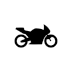
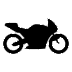
Images updated, line added an current location provided

Changed region(s): [[0.0278, 0.25, 0.9722, 0.75]]

diff --git a/workspaces/client/src/screens/Maps.tsx b/workspaces/client/src/screens/Maps.tsx
@@ -1,7 +1,7 @@
 import React, { useState, useCallback } from 'react';
 import { Linking, StyleSheet, View } from 'react-native';
 import { Text, Button } from 'react-native-elements';
-import MapView, { Region, Marker } from 'react-native-maps';
+import MapView, { Region, Marker, Polyline } from 'react-native-maps';
 import AsyncStorage from '@react-native-async-storage/async-storage';
 import { useFocusEffect } from '@react-navigation/native';
 import * as Location from 'expo-location';
@@ -12,7 +12,7 @@ import axios from '../../axios';
 import { Coords, Log, Tracker } from '../../types';
 import BicycleImage from '../../assets/bicycle.png';
 import TrailerImage from '../../assets/trailer.png';
-import MotorbikeImage from '../../assets/motorbike_avatar.png';
+import MotorbikeImage from '../../assets/motorbike.png';
 import ScooterImage from '../../assets/scooter.png';
 
 export default function MapsScreen({
@@ -132,6 +132,8 @@ export default function MapsScreen({
 
 	useFocusEffect(
 		useCallback(() => {
+			getCurLocation();
+
 			getCoords();
 		}, [route?.params])
 	);
@@ -157,9 +159,16 @@ export default function MapsScreen({
 					image={getTrackerImage()}
 				/>
 				{curLocation ? (
-					<Marker title={'Uw locatie'} coordinate={curLocation}>
-						<MaterialIcons name="my-location" />
-					</Marker>
+					<>
+						<Marker title={'Uw locatie'} coordinate={curLocation}>
+							<MaterialIcons name="my-location" size={20} />
+						</Marker>
+						<Polyline
+							coordinates={[coords, curLocation]}
+							strokeWidth={2}
+							lineDashPattern={[1, 5, 5, 5]}
+						/>
+					</>
 				) : null}
 			</MapView>
 			<View>
